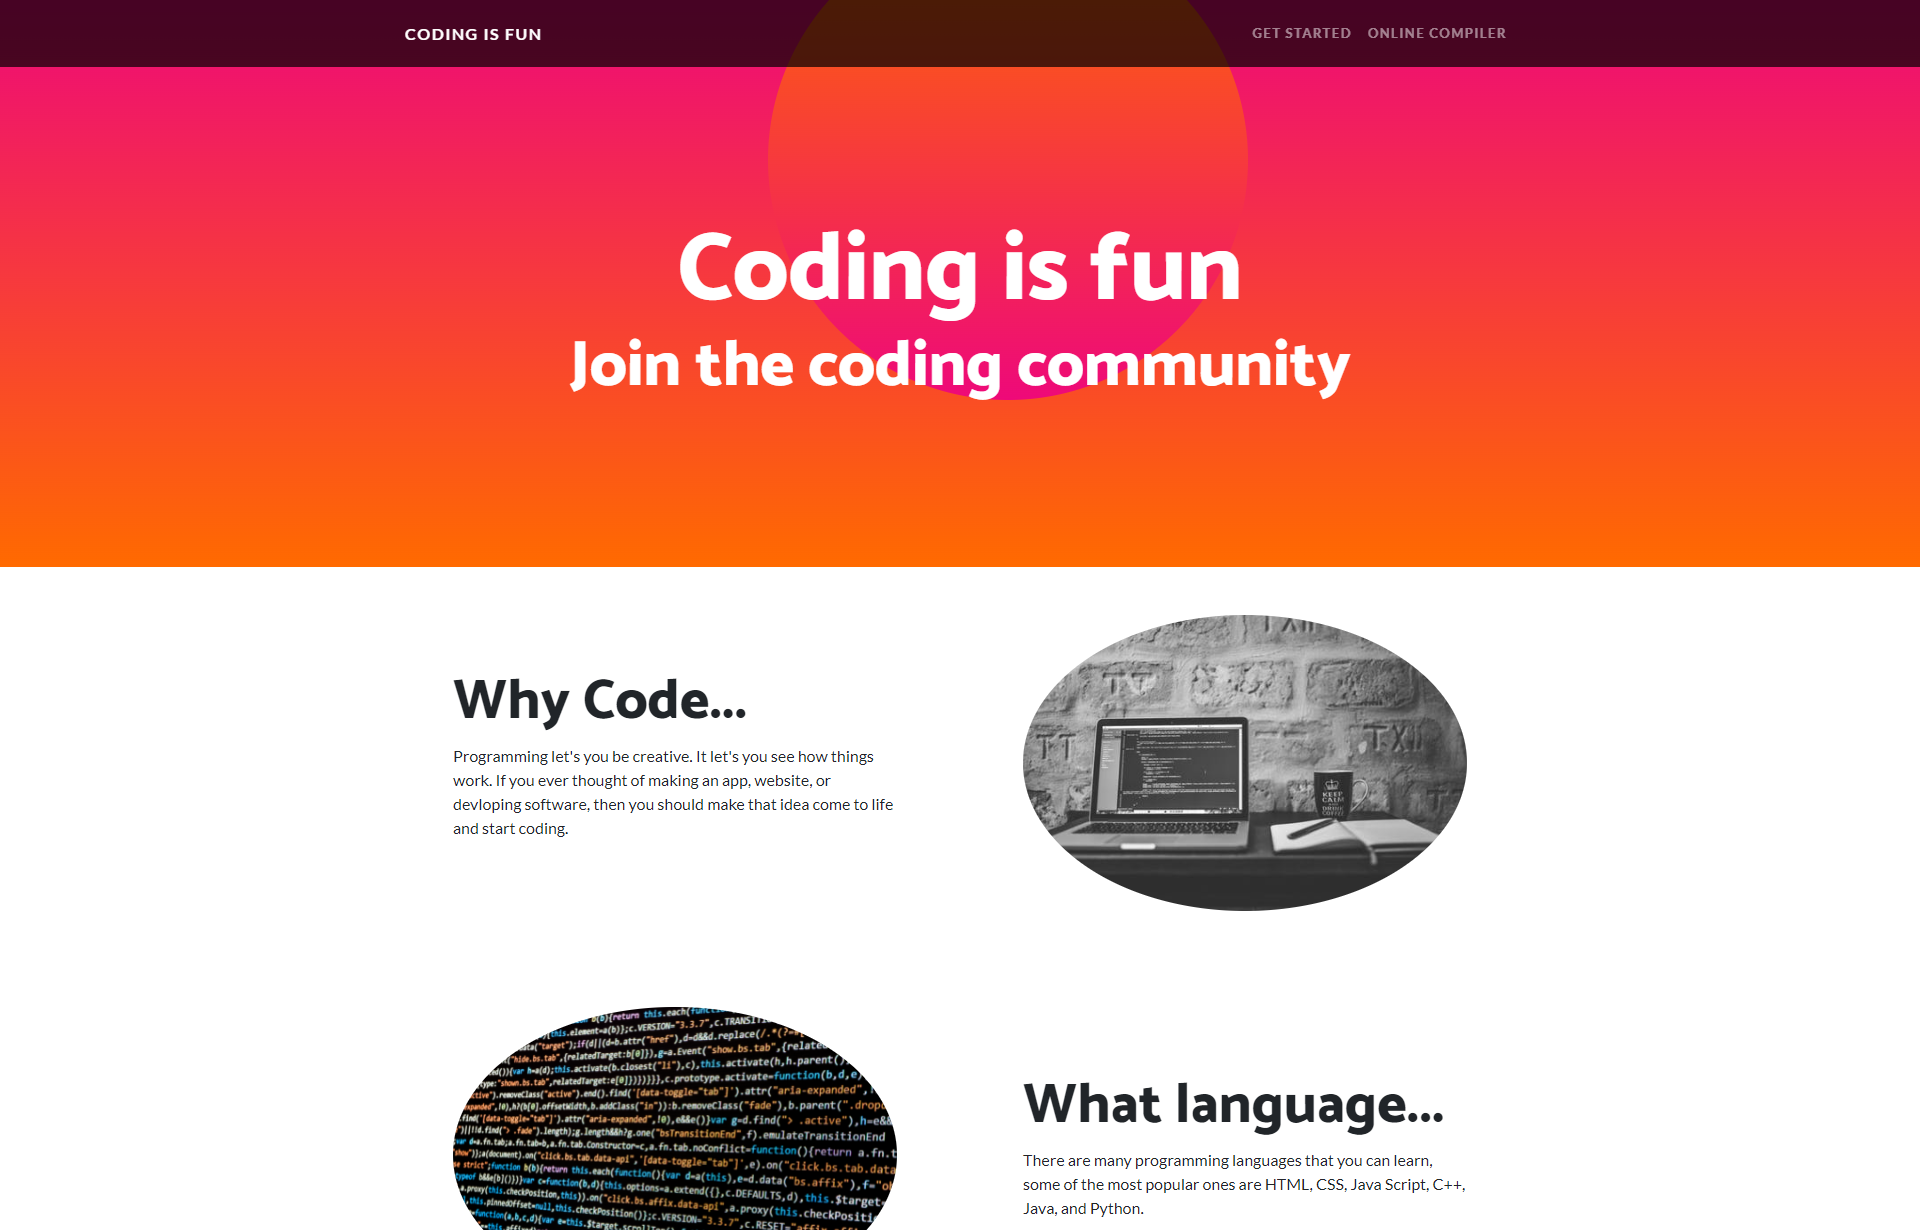
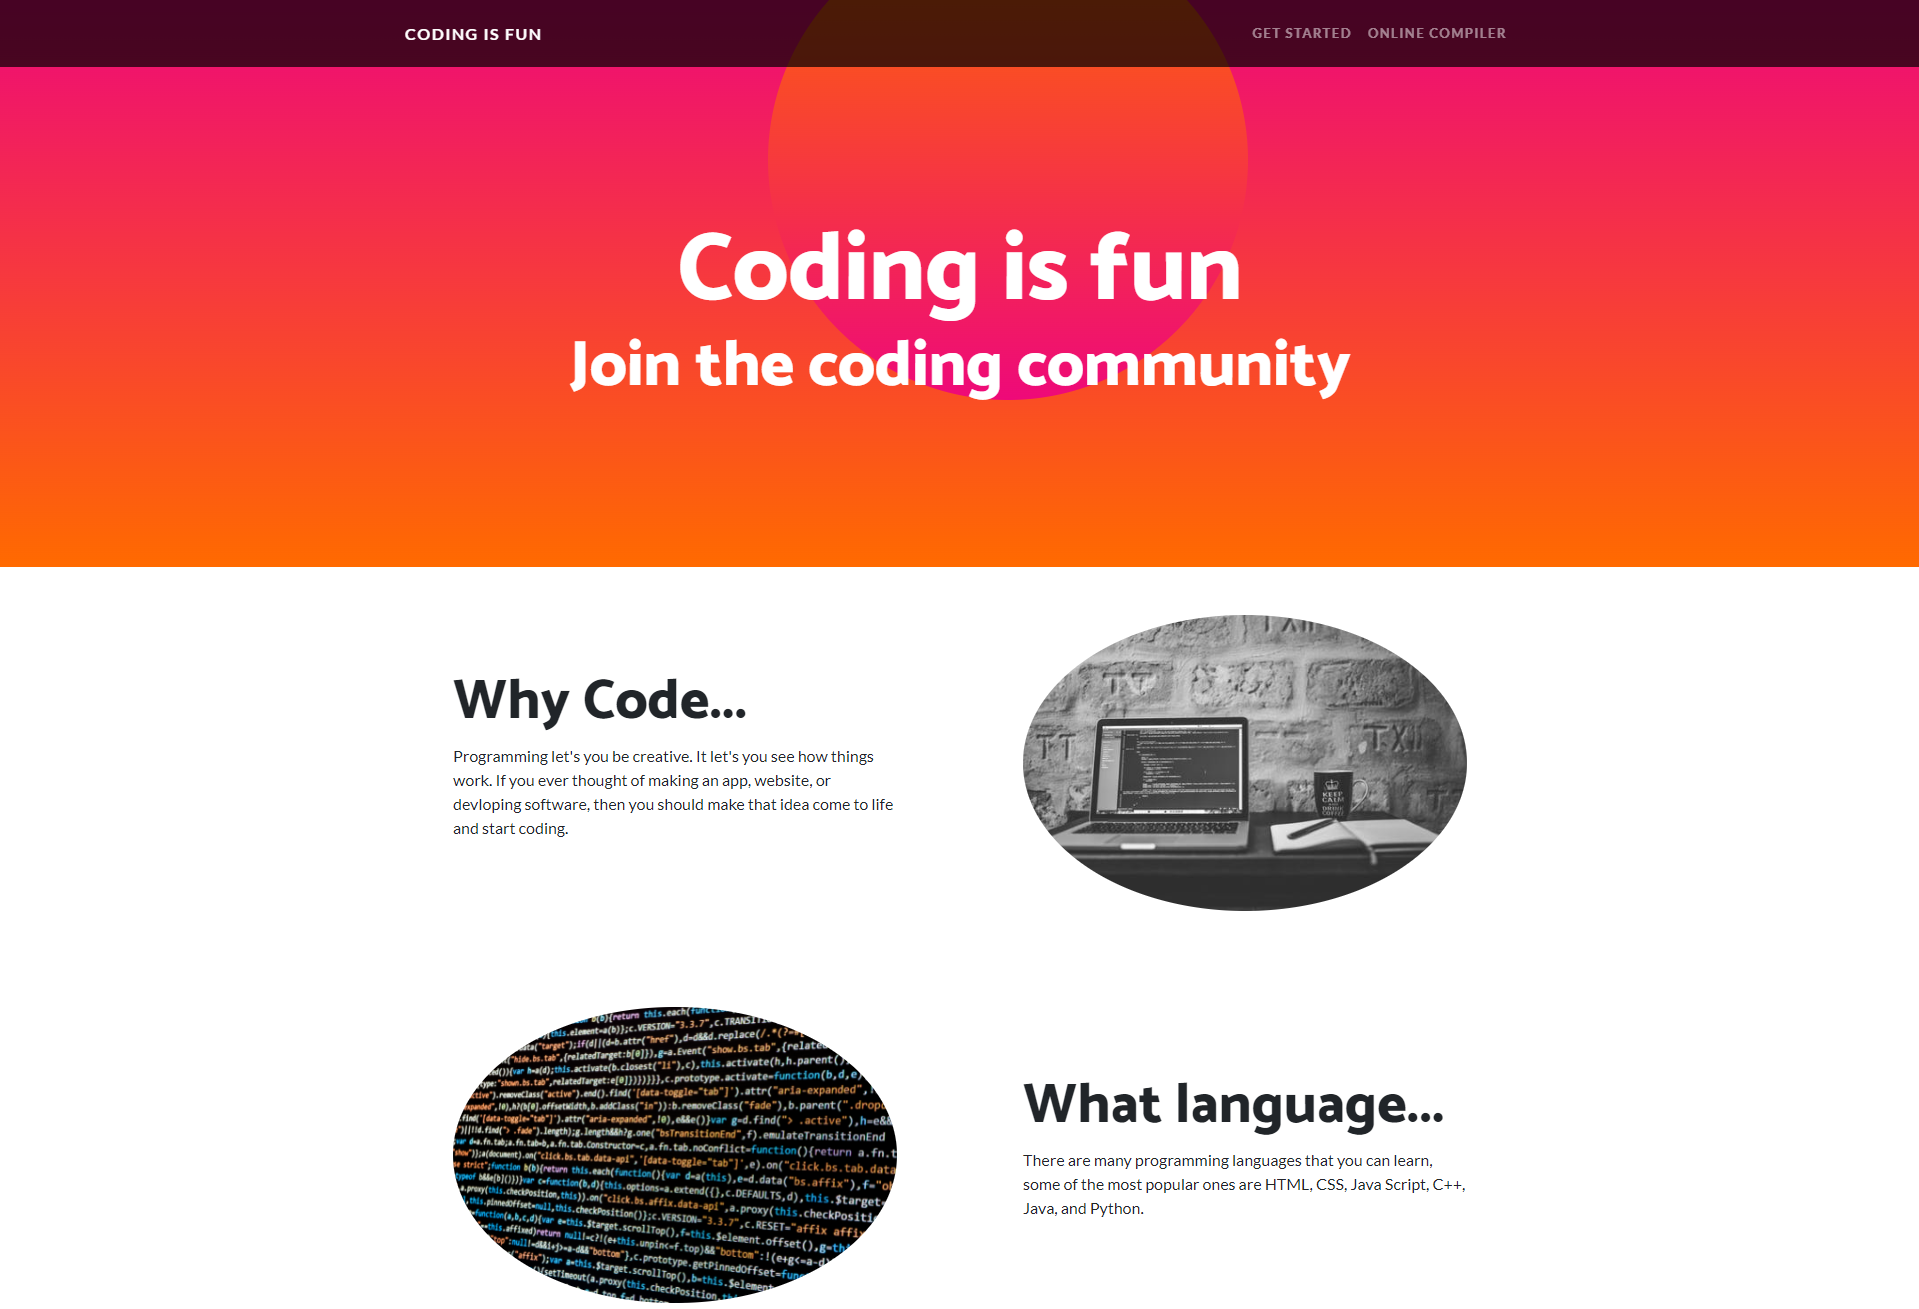
20th commit

diff --git a/public/index.html b/public/index.html
@@ -63,8 +63,14 @@
         border: 2px solid #ccc;
     }
 
+    img {
+      
+      border: 2px solid #ccc;
+
+    }
+
   </style>
- 
+
 
   <!-- ======= Hero Section ======= -->
   <section id="hero" class="d-flex flex-column justify-content-center">
